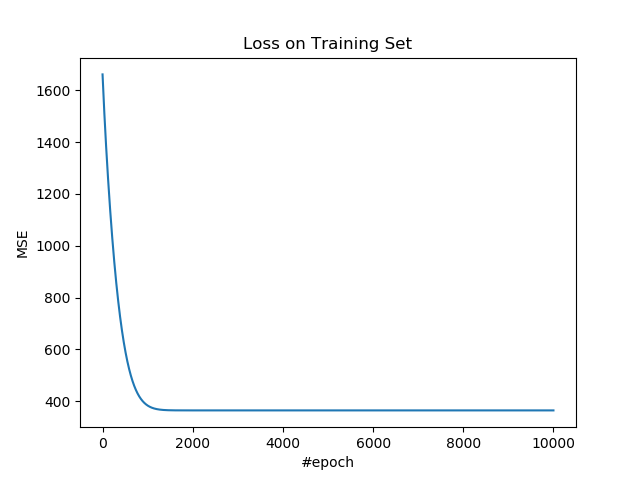
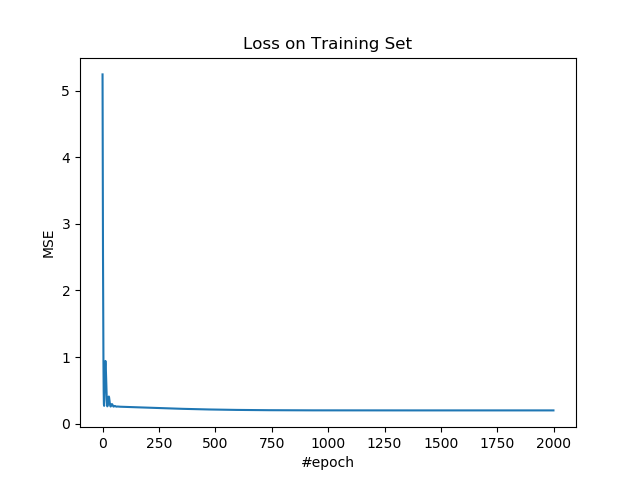
1.1

diff --git a/ch1/1.1.md b/ch1/1.1.md
@@ -14,11 +14,29 @@ import sklearn.datasets as ds
 import sklearn.model_selection as ms
 ```
 
+导入数据，并进行预处理。我们使用鸢尾花数据集中的后两个品种，根据萼片长度预测花瓣长度。
+
+> 注
+> 
+> 由于数据的范围都差不多，就不标准化了。
+
+```py
+iris = ds.load_iris()
+
+x_ = iris.data[50:, 0]
+y_ = iris.data[50:, 2]
+x_ = np.expand_dims(x_, 1)
+y_ = np.expand_dims(y_, 1)
+
+x_train, x_test, y_train, y_test = \
+    ms.train_test_split(x_, y_, train_size=0.7, test_size=0.3)
+```
+
+
 定义所需超参数。
 
 | 变量 | 含义 |
 | --- | --- |
-| `n_data` | 样本量 |
 | `n_input` | 样本特征数 |
 | `n_epoch` | 迭代数 |
 | `lr` | 学习率 |
@@ -28,29 +46,9 @@ import sklearn.model_selection as ms
 > 要注意这篇教程中，为了方便展示，我们进行一元线性回归，但是特征数还是单独定义出来，便于各位扩展。
 
 ```py
-n_data = 200
 n_input = 1
-n_epoch = 10000
+n_epoch = 2000
 lr = 0.05
-```
-
-生成数据，并进行预处理。
-
-> 注
-> 
-> 由于数据的范围都差不多，就不标准化了。
-
-```py
-x_, y_ = ds.make_regression(n_samples=n_data,
-                        n_features=n_input,
-                        n_informative=1,
-                        n_targets=1,
-                        noise = 20.0)
-
-y_ = y_.reshape([n_data, 1])
-
-x_train, x_test, y_train, y_test = \
-    ms.train_test_split(x_, y_, train_size=0.7, test_size=0.3)
 ```
 
 搭建模型。
@@ -118,11 +116,45 @@ with tf.Session() as sess:
         r_sqrs.append(r_sqr_)
 ```
 
+每一百步打印损失和度量值。
+
+```py
+        if e % 100 == 0:
+            print(f'epoch: {e}, loss: {loss_}, r_sqr: {r_sqr_}')
+```
+
 得到`w`和`b`的值：
 
 ```py
     w_, b_ = sess.run([w, b])
     w_, b_ = w_[0, 0], b_[0, 0]
+    print(f'w: {w_}, b: {b_}')
+```
+
+输出：
+
+```
+epoch: 0, loss: 5.246808867412861, r_sqr: -3.3580545179249626
+epoch: 100, loss: 0.25004445837782013, r_sqr: 0.6041164943701897
+epoch: 200, loss: 0.23843082653827946, r_sqr: 0.6236514954522687
+epoch: 300, loss: 0.2269390629355829, r_sqr: 0.6450002345272472
+epoch: 400, loss: 0.21722877318795483, r_sqr: 0.6634834235462157
+epoch: 500, loss: 0.20989747215734747, r_sqr: 0.6779371113275436
+epoch: 600, loss: 0.20484664052302196, r_sqr: 0.6884008829992205
+epoch: 700, loss: 0.20163908809697076, r_sqr: 0.6955228132490906
+epoch: 800, loss: 0.19975160600281744, r_sqr: 0.7001369890134553
+epoch: 900, loss: 0.19871975070335382, r_sqr: 0.703016047551422
+epoch: 1000, loss: 0.198195164170451, r_sqr: 0.7047660277836822
+epoch: 1100, loss: 0.19794716641396798, r_sqr: 0.7058129761451779
+epoch: 1200, loss: 0.19783823837210518, r_sqr: 0.7064340685560638
+epoch: 1300, loss: 0.19779385162364785, r_sqr: 0.7068004742345046
+epoch: 1400, loss: 0.19777710515759306, r_sqr: 0.7070149540532822
+epoch: 1500, loss: 0.19777126958353536, r_sqr: 0.7071387737013775
+epoch: 1600, loss: 0.1977693968167384, r_sqr: 0.7072087165692382
+epoch: 1700, loss: 0.1977688451271843, r_sqr: 0.7072470717155128
+epoch: 1800, loss: 0.19776869649521, r_sqr: 0.707267350669178
+epoch: 1900, loss: 0.19776866002369958, r_sqr: 0.7072776300744172
+w: 1.0172901583453826, b: -1.4277138675691743
 ```
 
 绘制整个数据集的预测结果。
